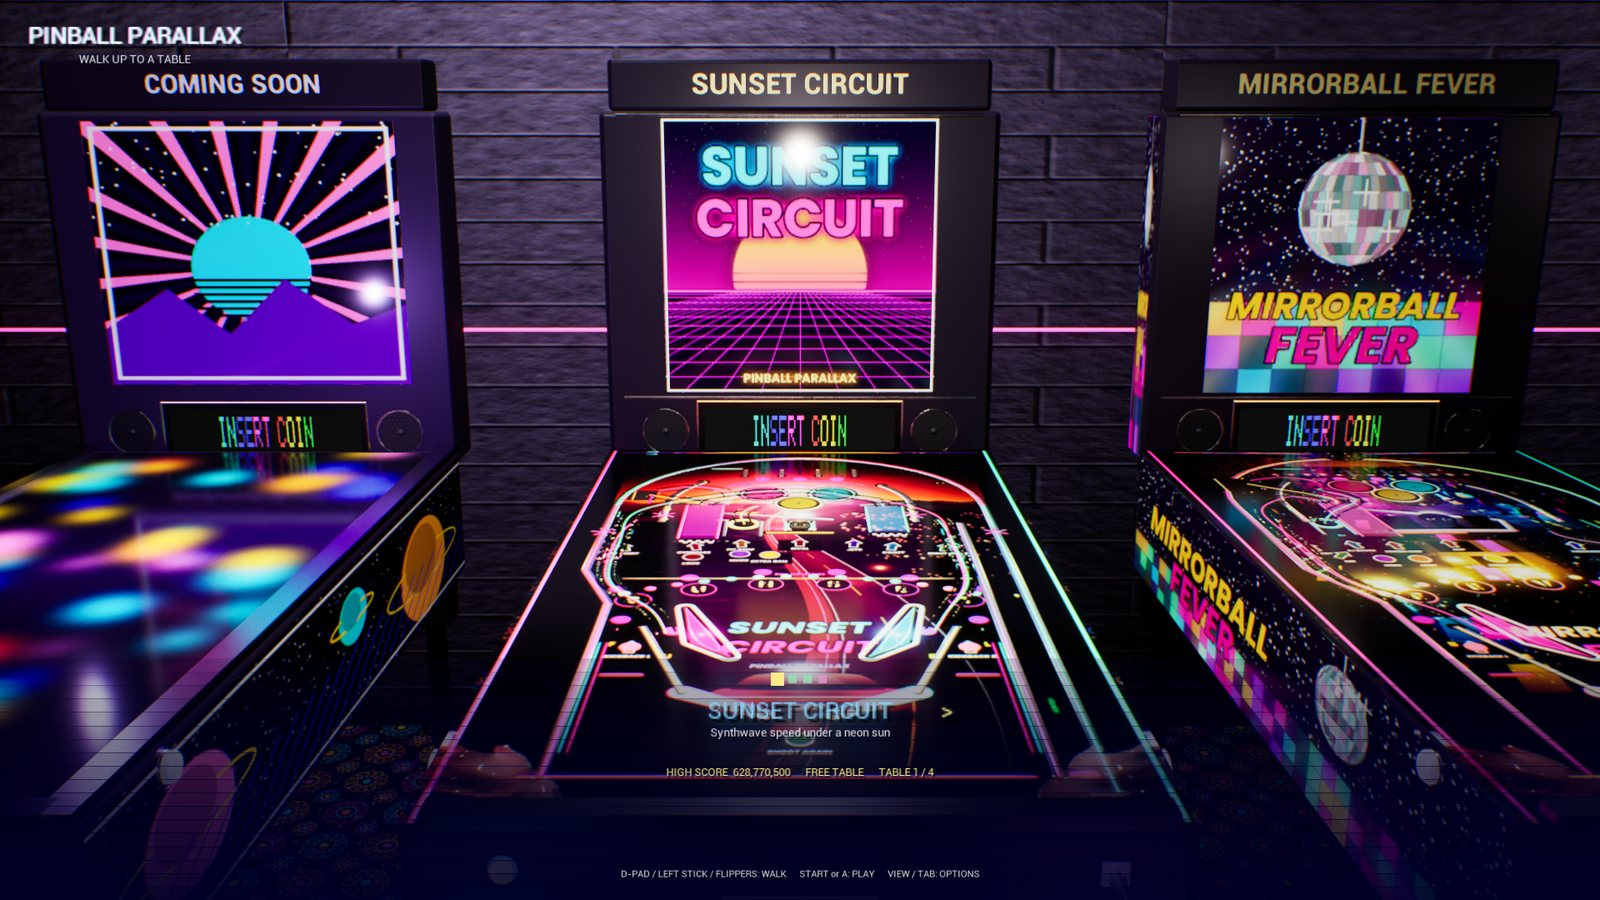
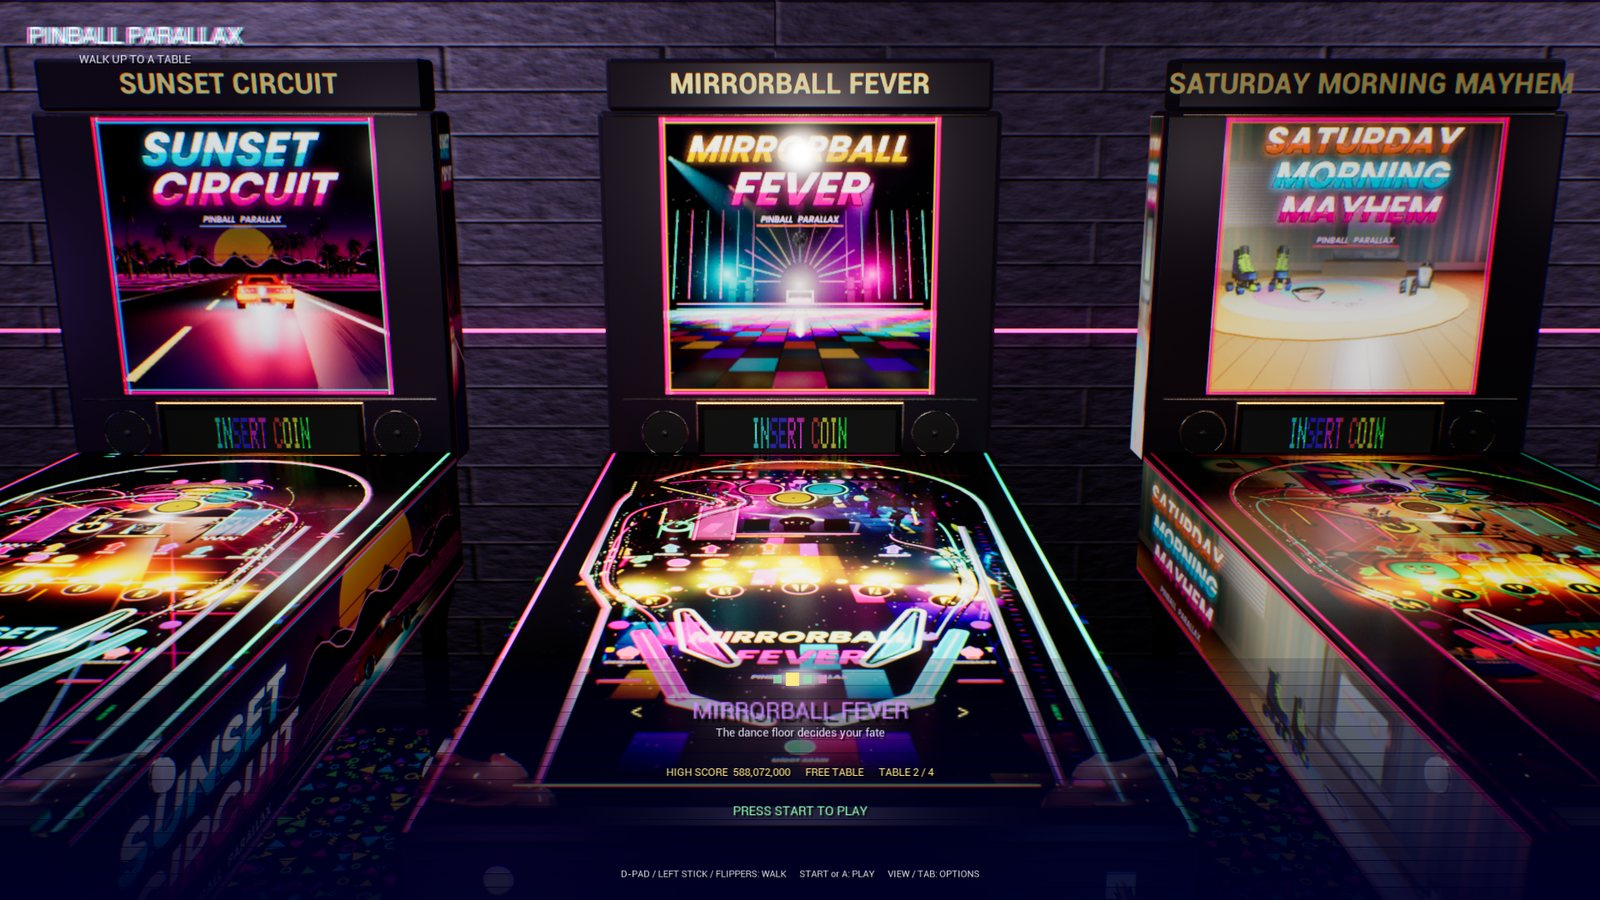
Pinball Parallax: new 3D-art screenshots and Oct 20 progress
Replace the gallery with eight new shots of the three free tables (3D-rendered
playfields, neon inserts, cabinets), refresh the feature list, and add the
Oct 19-20 updates (3D art, neon inserts, head tracking, beat lights and rumble,
splash, sounds, achievements). Nothing about the upcoming DLC table.

Claude-Session: https://claude.ai/code/session_01Jxj2h5iKhXghzfS6RcWoDz

diff --git a/projects-data.js b/projects-data.js
@@ -23,15 +23,17 @@ window.PROJECTS = [
     statusLabel: "In development · PC",
     featured: true,
     art: "assets/pinball/lobby.jpg",
-    artAlt: "Pinball Parallax table-select arcade with Sunset Circuit and Mirrorball Fever cabinets",
+    artAlt: "Pinball Parallax table-select arcade with the Sunset Circuit, Mirrorball Fever and Saturday Morning Mayhem cabinets",
     summary:
       "A next-generation pinball game built in Unreal Engine 5, designed to look and feel like a real modern arcade machine. Walk up to a row of cabinets in a neon arcade and pick a table: Sunset Circuit, Mirrorball Fever and Saturday Morning Mayhem are free to play, with more themed tables to follow.",
     features: [
-      "Webcam head tracking: move your head and the table's perspective shifts for a holographic, look-through-the-glass effect",
+      "3D-rendered art on every table: the playfields, backglasses and cabinets are rendered scenes, not flat drawings",
+      "Glowing neon shot inserts that light up the art around them as you play",
+      "Webcam head tracking: lean left or right and the whole table shifts like you're really leaning over a machine",
       "Real pinball hardware on every table: star posts, rubber-band slingshots, pop bumpers, drop targets and wire ramps",
+      "Adaptive music that builds with your play, lights that pulse to the beat, and controller rumble that kicks in during multiball",
       "A 16-colour LED score display with its own animations for each table",
-      "Adaptive music that reacts to how you play, with sound effects that change on every hit",
-      "Photo mode with a free-roaming camera, controller rumble, and VR support planned"
+      "Achievements and high-score leaderboards, photo mode, and VR support planned"
     ],
     links: [
       { label: "Join the Discord", url: "https://discord.gg/hmX7Hf4E5" },
@@ -40,12 +42,20 @@ window.PROJECTS = [
     ],
     gallery: [
       { src: "assets/pinball/lobby.jpg", thumb: "assets/pinball/thumb-lobby.jpg", caption: "The table-select arcade: walk up to a cabinet and press start" },
-      { src: "assets/pinball/sunset-bumpers.jpg", thumb: "assets/pinball/thumb-sunset-bumpers.jpg", caption: "Sunset Circuit: pop bumpers under the wire ramps" },
-      { src: "assets/pinball/mirrorball-upper.jpg", thumb: "assets/pinball/thumb-mirrorball-upper.jpg", caption: "Mirrorball Fever: the dance floor and DJ booth" },
-      { src: "assets/pinball/smm-lower.jpg", thumb: "assets/pinball/thumb-smm-lower.jpg", caption: "Saturday Morning Mayhem: cartoon art and lit shot inserts" },
-      { src: "assets/pinball/slingshot.jpg", thumb: "assets/pinball/thumb-slingshot.jpg", caption: "Close-up: a slingshot with its rubber band, star posts and lit plastic" }
+      { src: "assets/pinball/sunset-inserts.jpg", thumb: "assets/pinball/thumb-sunset-inserts.jpg", caption: "Sunset Circuit: neon shot inserts over the new 3D-rendered road" },
+      { src: "assets/pinball/sunset-bumpers.jpg", thumb: "assets/pinball/thumb-sunset-bumpers.jpg", caption: "Sunset Circuit: pop bumpers under the wire ramps, with the sun on the horizon" },
+      { src: "assets/pinball/sunset-cabinet.jpg", thumb: "assets/pinball/thumb-sunset-cabinet.jpg", caption: "Sunset Circuit's cabinet, with its 3D-rendered side art" },
+      { src: "assets/pinball/mirrorball-floor.jpg", thumb: "assets/pinball/thumb-mirrorball-floor.jpg", caption: "Mirrorball Fever: the light-up dance floor and DJ booth" },
+      { src: "assets/pinball/mirrorball-bumpers.jpg", thumb: "assets/pinball/thumb-mirrorball-bumpers.jpg", caption: "Mirrorball Fever: the pop bumpers and the mirror ball" },
+      { src: "assets/pinball/smm-room.jpg", thumb: "assets/pinball/thumb-smm-room.jpg", caption: "Saturday Morning Mayhem: a sunny living room, rendered in 3D" },
+      { src: "assets/pinball/smm-cabinet.jpg", thumb: "assets/pinball/thumb-smm-cabinet.jpg", caption: "Saturday Morning Mayhem's cabinet in the arcade" }
     ],
     updates: [
+      { date: "2026-10-20", text: "Every table now has 3D-rendered playfield art, and the shot arrows and lights are glowing neon inserts that light up the art around them." },
+      { date: "2026-10-20", text: "Head tracking feels much more natural: lean left and the whole table shifts right, just like leaning over a real machine." },
+      { date: "2026-10-20", text: "The table lights now pulse to the music, and the controller rumbles on the beat during multiball." },
+      { date: "2026-10-20", text: "A new animated splash screen, new slingshot, spinner and rollover sounds, and achievements and leaderboards are ready for launch." },
+      { date: "2026-10-19", text: "New 3D-rendered cabinet and backglass art for every table, and a 90s neon confetti carpet for the arcade." },
       { date: "2026-10-19", text: "Real pinball hardware is going in across every table: posts, bumpers, slingshots, flippers, drop and stand-up targets, and smooth wire ramps." },
       { date: "2026-10-19", text: "New 16-colour LED displays, and every cabinet in the arcade now has its own lit LED panel and speakers." },
       { date: "2026-10-17", text: "New adaptive music engine is in and play-tested." },
